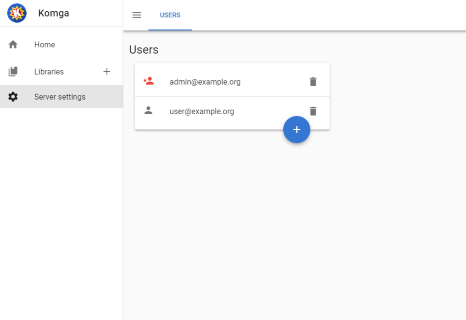
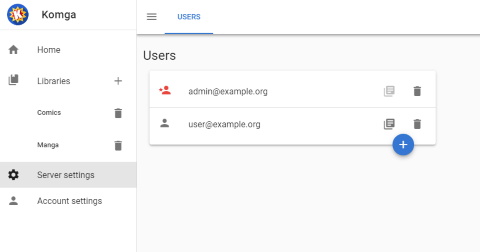
update readme

diff --git a/README.md b/README.md
@@ -11,10 +11,11 @@ Komga is a free and open source comics/mangas server.
 Features include:
 
 - scan and index libraries (local folders) containing sub-folders with comic book archives in `cbz` and `cbr` format, as well as `pdf`. Rescan periodically.
-- serve the individual pages of those books via API. It can convert pages to different image format on the fly.
-- serve the complete file via API
-- provide OPDS feed
+- API to serve the individual pages of those books. It can convert pages to different image format on the fly.
+- API to serve the complete file for download
+- OPDS feed
 - web interface
+- user management, with per-library access control
 
 ## Installation
 
@@ -120,14 +121,14 @@ Komga should work with any OPDS reader, unfortunately most readers badly impleme
 
 Here is a list of reader applications I have tested:
 
-| OS      | App name                                                                                                             | Status                                                                       | OpenSearch support | Page streaming support |
-|---------|----------------------------------------------------------------------------------------------------------------------|------------------------------------------------------------------------------|--------------------|------------------------|
-| Android | [FBReader: Favorite Book Reader](https://play.google.com/store/apps/details?id=org.geometerplus.zlibrary.ui.android) | :x: Can't download CBR/CBZ, only PDF. PDF only supported in Premium version. | No                 | No                     |
-| Android | [Moon+ reader](https://play.google.com/store/apps/details?id=com.flyersoft.moonreader)                               | :x: Cannot access CBR/CBZ, get an error 401                                  | No                 | No                     |
-| Android | [Librera](https://play.google.com/store/apps/details?id=com.foobnix.pdf.reader)                                      | :x: Doesn't open CBR/CBZ                                                     | No                 | No                     |
-| Android | [PocketBook](https://play.google.com/store/apps/details?id=com.obreey.reader)                                        | :x: Doesn't show CBR/CBZ                                                     | No                 | No                     |
-| iOS     | [KyBook 3](http://kybook-reader.com/)                                                                                | :heavy_check_mark:                                                           | **Yes**            | No                     |
-| iOS     | [Chunky Comic Reader](http://chunkyreader.com/)                                                                      | :warning: Cannot download CBR/CBZ, but can stream pages                      | No                 | **Yes**                |
+| OS      | App name                                                                                                             | Status                                                                                                   | OpenSearch support | Page streaming support |
+|---------|----------------------------------------------------------------------------------------------------------------------|----------------------------------------------------------------------------------------------------------|--------------------|------------------------|
+| Android | [FBReader: Favorite Book Reader](https://play.google.com/store/apps/details?id=org.geometerplus.zlibrary.ui.android) | :x: Can't download CBR/CBZ, only PDF. PDF only supported in Premium version. Does not remember password. | No                 | No                     |
+| Android | [Moon+ reader](https://play.google.com/store/apps/details?id=com.flyersoft.moonreader)                               | :x: Cannot download files. Does not remember password.                                                   | No                 | No                     |
+| Android | [Librera](https://play.google.com/store/apps/details?id=com.foobnix.pdf.reader)                                      | :x: Doesn't save CBR/CBZ with proper file extension                                                      | No                 | No                     |
+| Android | [PocketBook](https://play.google.com/store/apps/details?id=com.obreey.reader)                                        | :x: Doesn't show CBR/CBZ                                                                                 | No                 | No                     |
+| iOS     | [KyBook 3](http://kybook-reader.com/)                                                                                | :heavy_check_mark:                                                                                       | **Yes**            | No                     |
+| iOS     | [Chunky Comic Reader](http://chunkyreader.com/)                                                                      | :heavy_check_mark:                                                                                       | No                 | **Yes**                |
 
 Feel free to report your findings with other readers (by sending a PR)!
 
@@ -135,20 +136,23 @@ Feel free to report your findings with other readers (by sending a PR)!
 
 The web interface is available on port `8080`.
 
-Features:
+### Features
 
 - add and remove libraries (for administrators only)
 - server settings (for administrators only)
-    - users management
+    - users management (add and remove user, edit user's shared libraries access)
 - account settings
     - change password
 
-Screenshots:
+### Screenshots
 
-|Home page | Users management |
+|Home page | Account settings |
 |---|---|
-| [![webui_screenshot](./.github/readme-images/webui_small.png)](https://raw.githubusercontent.com/gotson/komga/master/.github/readme-images/webui.png) | [![webui-settings-users_screenshot](./.github/readme-images/webui-settings-users_small.png)](https://raw.githubusercontent.com/gotson/komga/master/.github/readme-images/webui-settings-users.png) |
+| [![webui_screenshot](./.github/readme-images/webui_small.png)](https://raw.githubusercontent.com/gotson/komga/master/.github/readme-images/webui.png) | [![webui-settings-users_screenshot](./.github/readme-images/webui-account-settings_small.png)](https://raw.githubusercontent.com/gotson/komga/master/.github/readme-images/webui-account-settings.png) |
 
+| Users management | User rights |
+|---|---|
+| [![webui-settings-users_screenshot](./.github/readme-images/webui-settings-users_small.png)](https://raw.githubusercontent.com/gotson/komga/master/.github/readme-images/webui-settings-users.png) | [![webui-settings-users_screenshot](./.github/readme-images/webui-settings-users-libraries.png)](https://raw.githubusercontent.com/gotson/komga/master/.github/readme-images/webui-settings-users-libraries.png) |
 
 ## APIs
 
